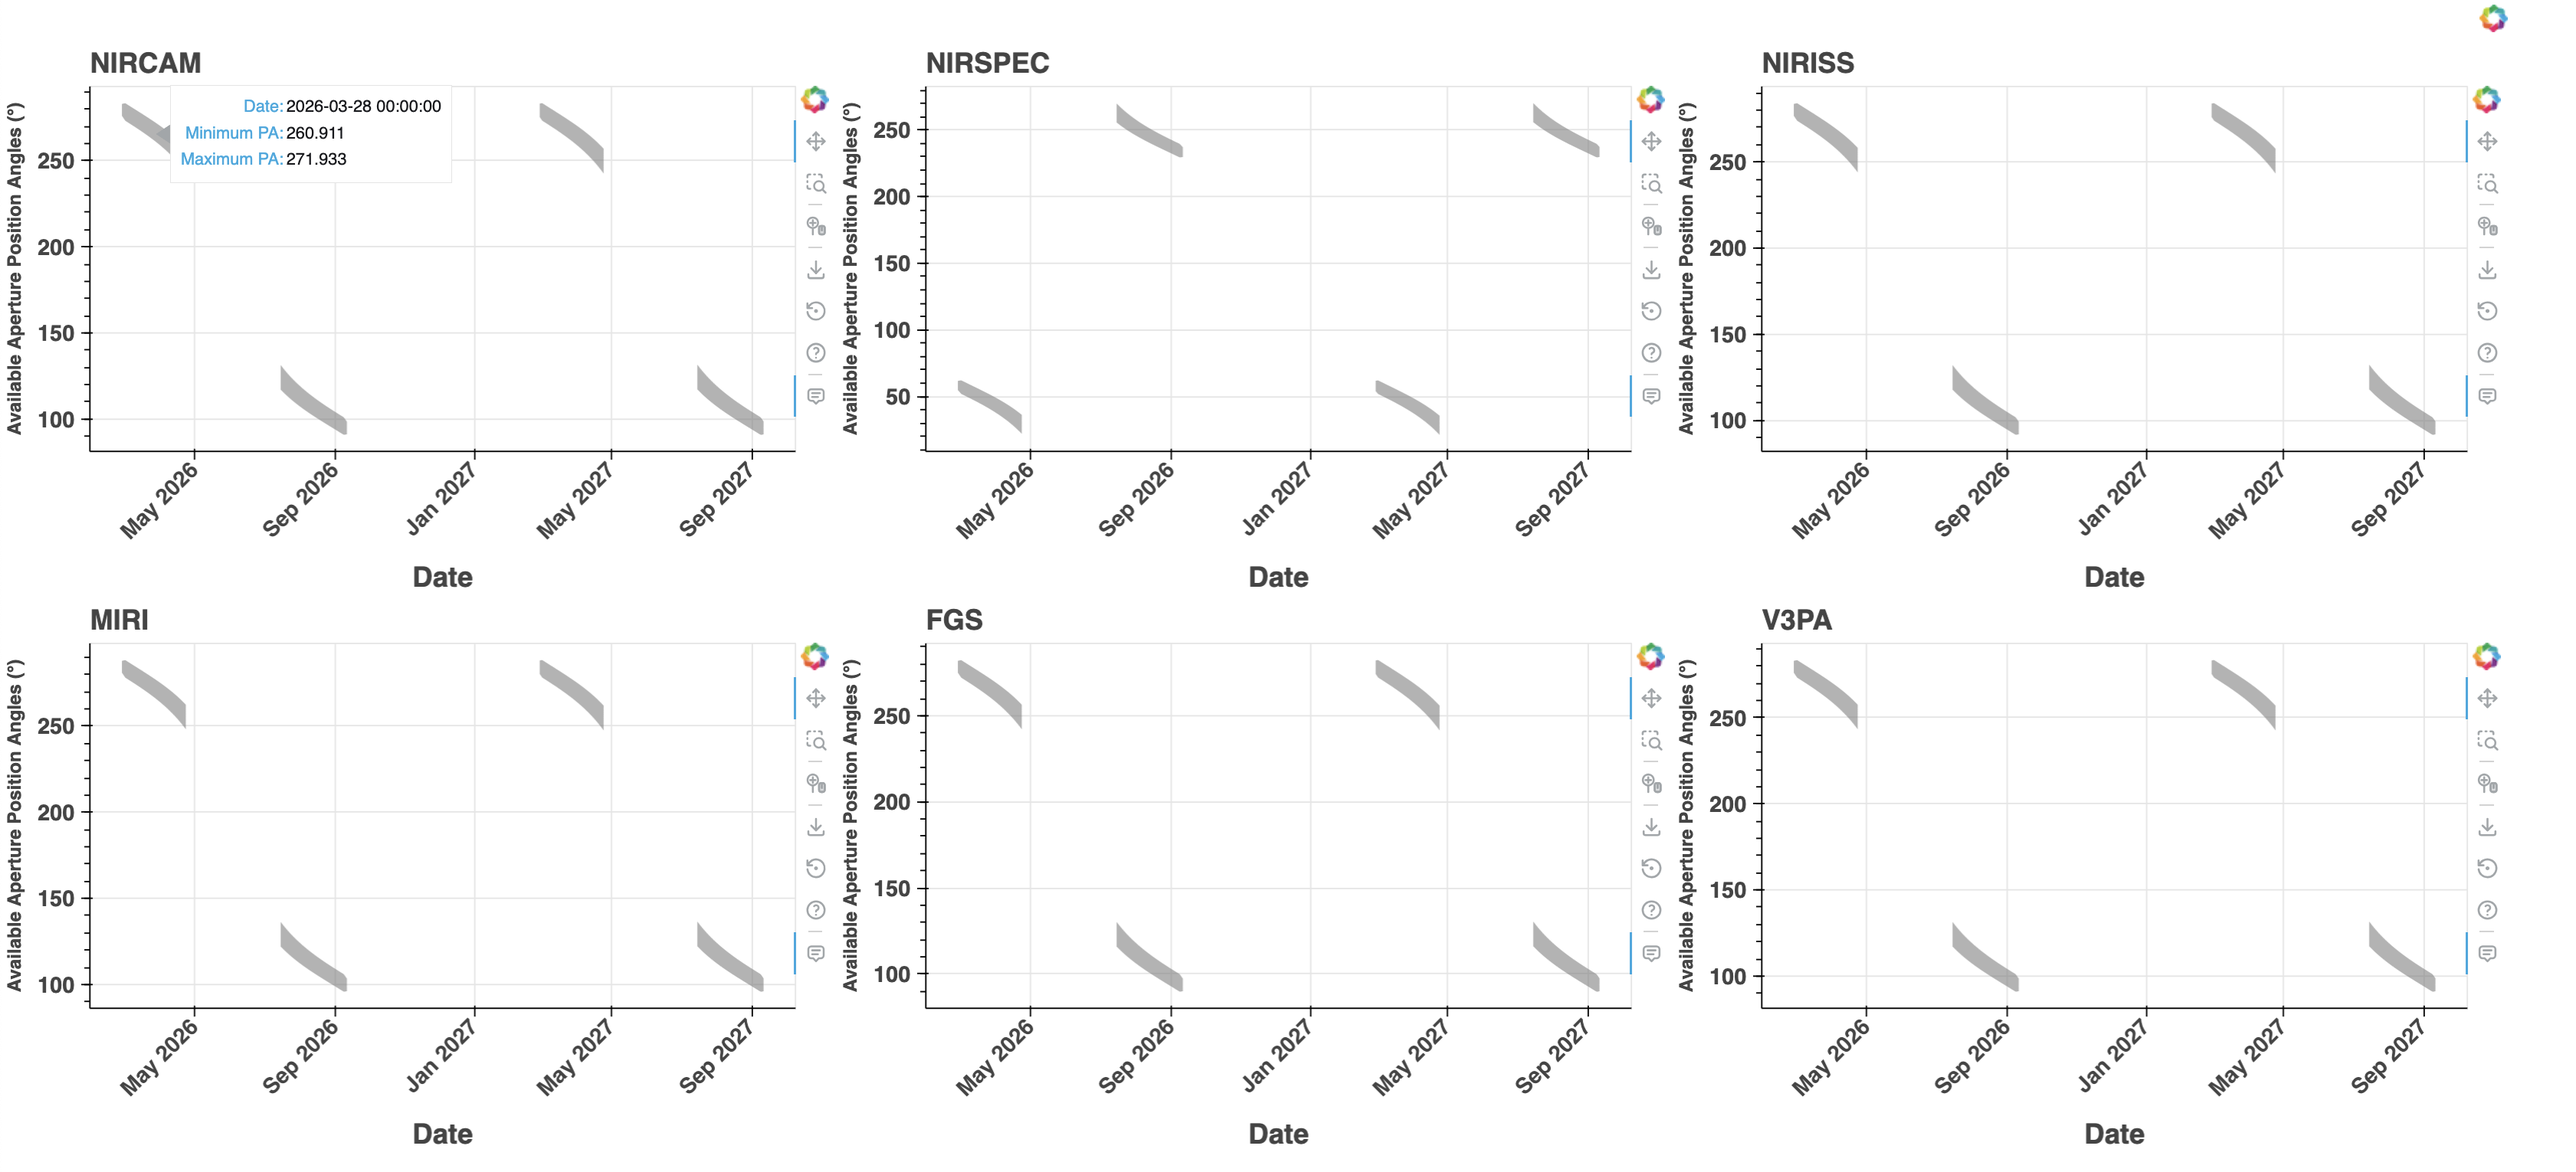
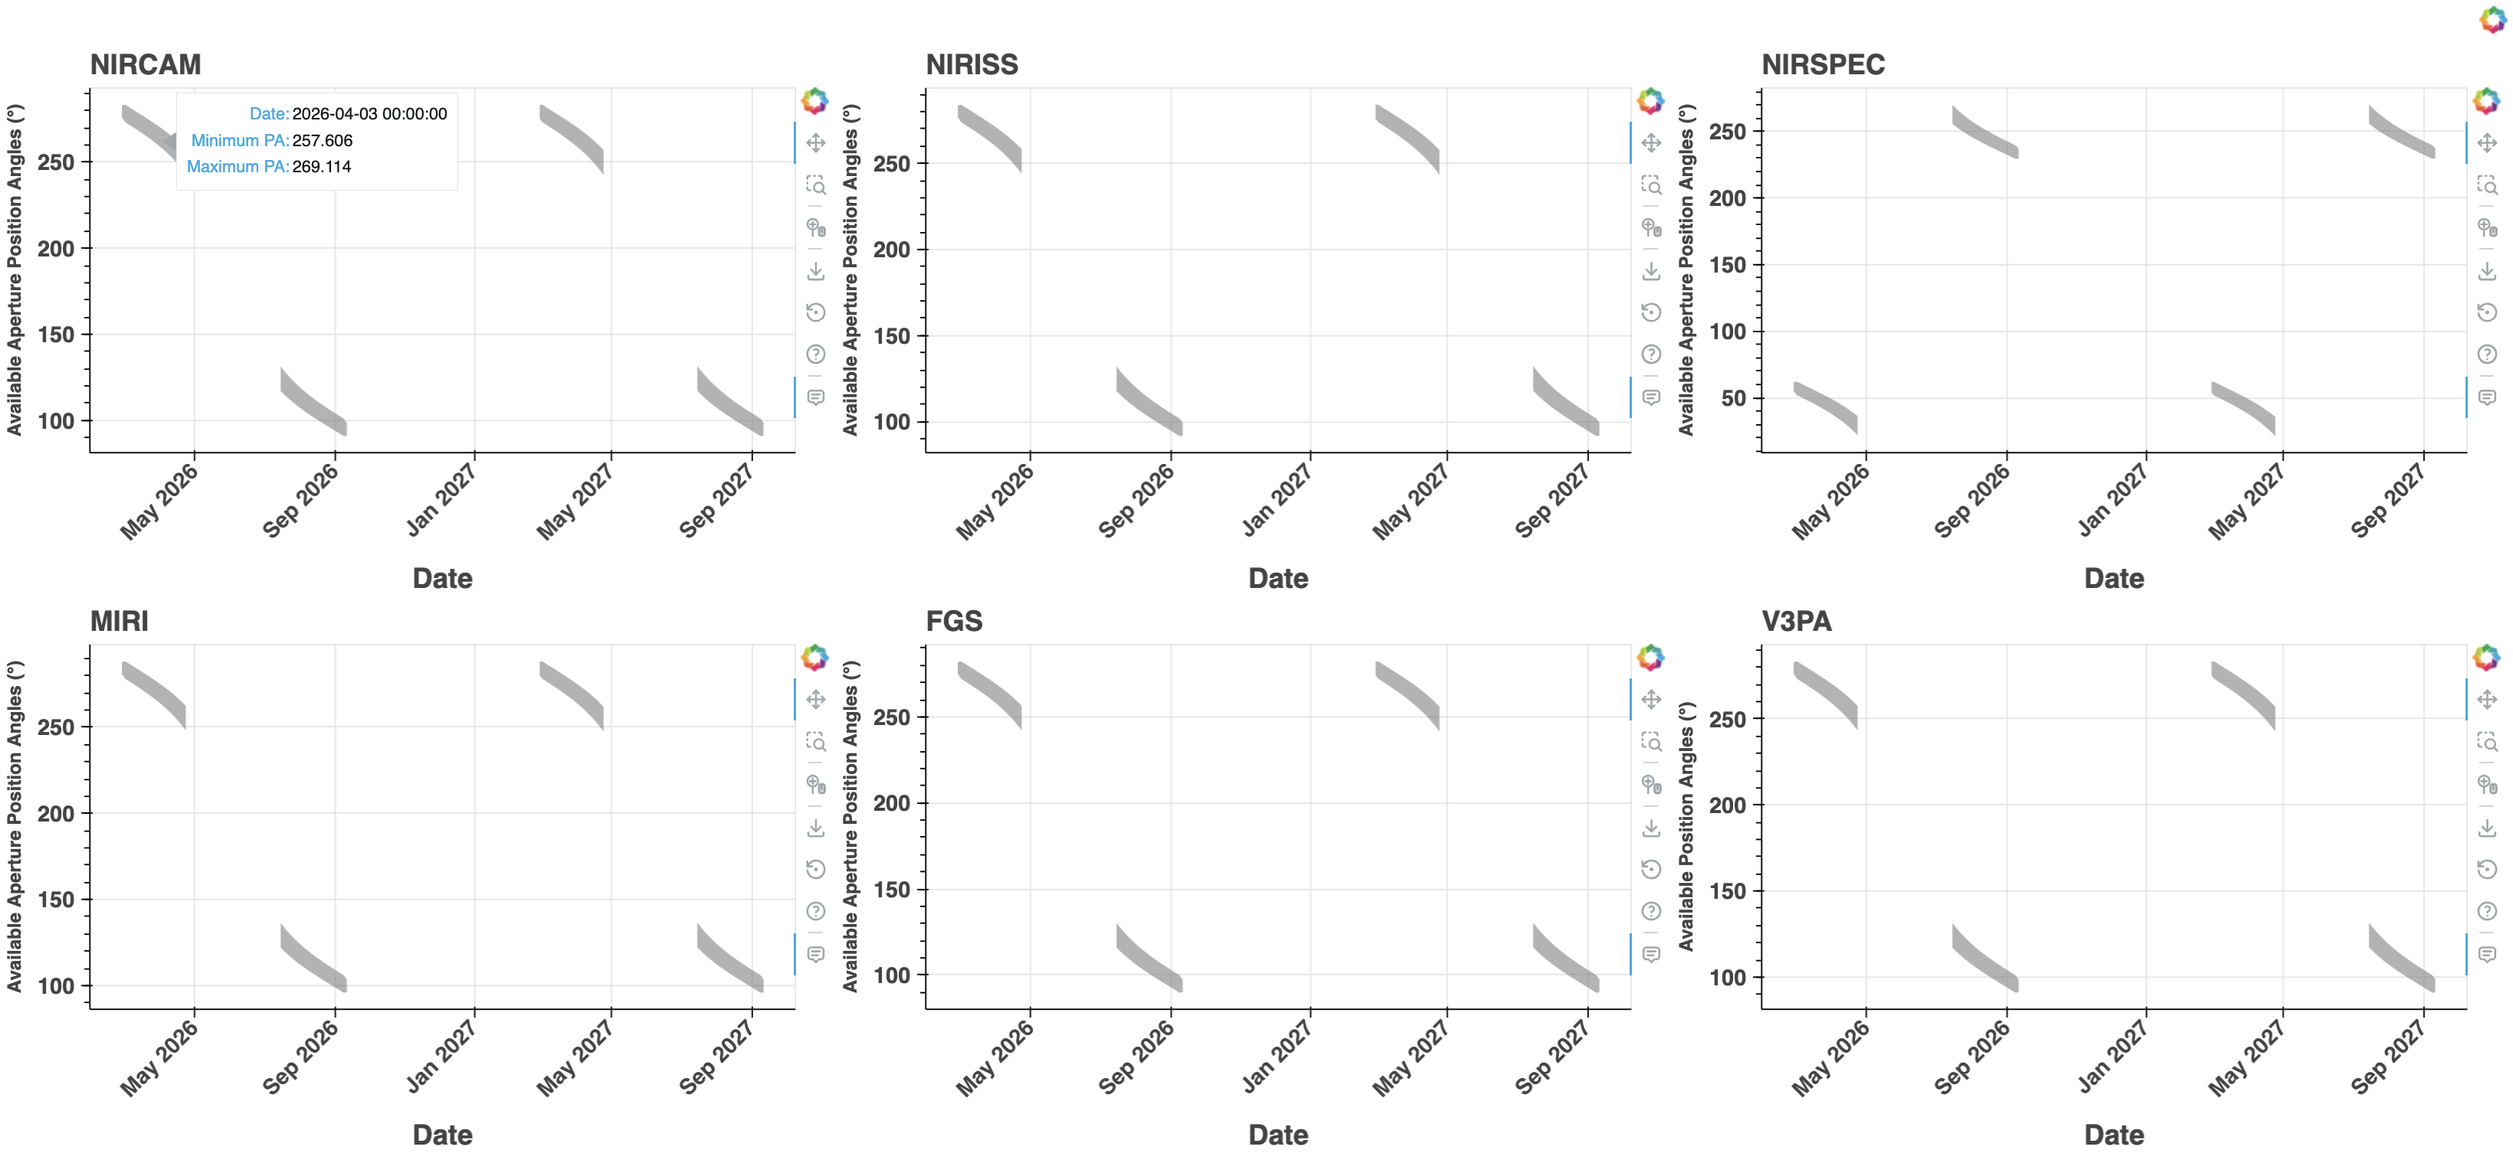
Adding updated docs plots, make instrument names uppercase

diff --git a/jwst_gtvt/plotting.py b/jwst_gtvt/plotting.py
@@ -139,6 +139,8 @@ def plot_interactive_visibility(ephemeris, instrument=None, name=None, write_plo
             Height size of plot in px
         width : int
             Width size of plot in px
+        name : str
+            Custom name provided by user via command line.
         """
         if instrument.lower() == "v3pa":
             ylabel = "Available Position Angles (°)"
@@ -146,9 +148,9 @@ def plot_interactive_visibility(ephemeris, instrument=None, name=None, write_plo
             ylabel = "Available Aperture Position Angles (°)"
 
         if name:
-            title = f"{name} visibility for {instrument}"
+            title = f"{name} visibility for {instrument.upper()}"
         else:
-            title = f"{instrument}"
+            title = f"{instrument.upper()}"
         p = figure(
             title=title,
             x_axis_type="datetime",
